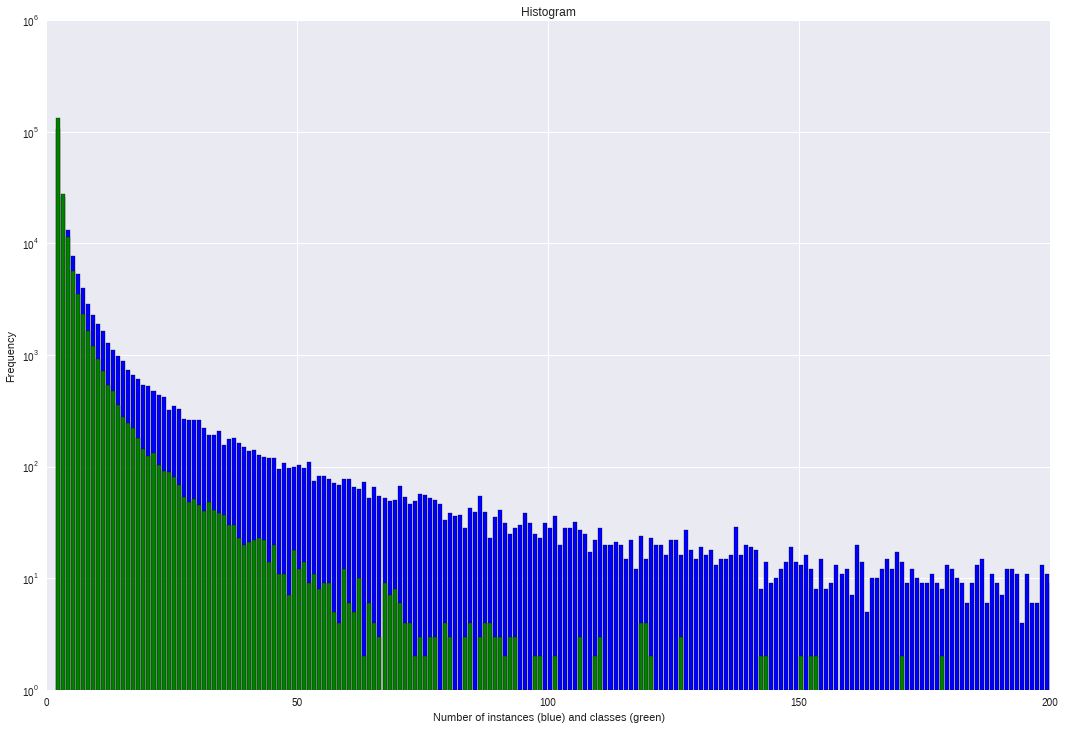
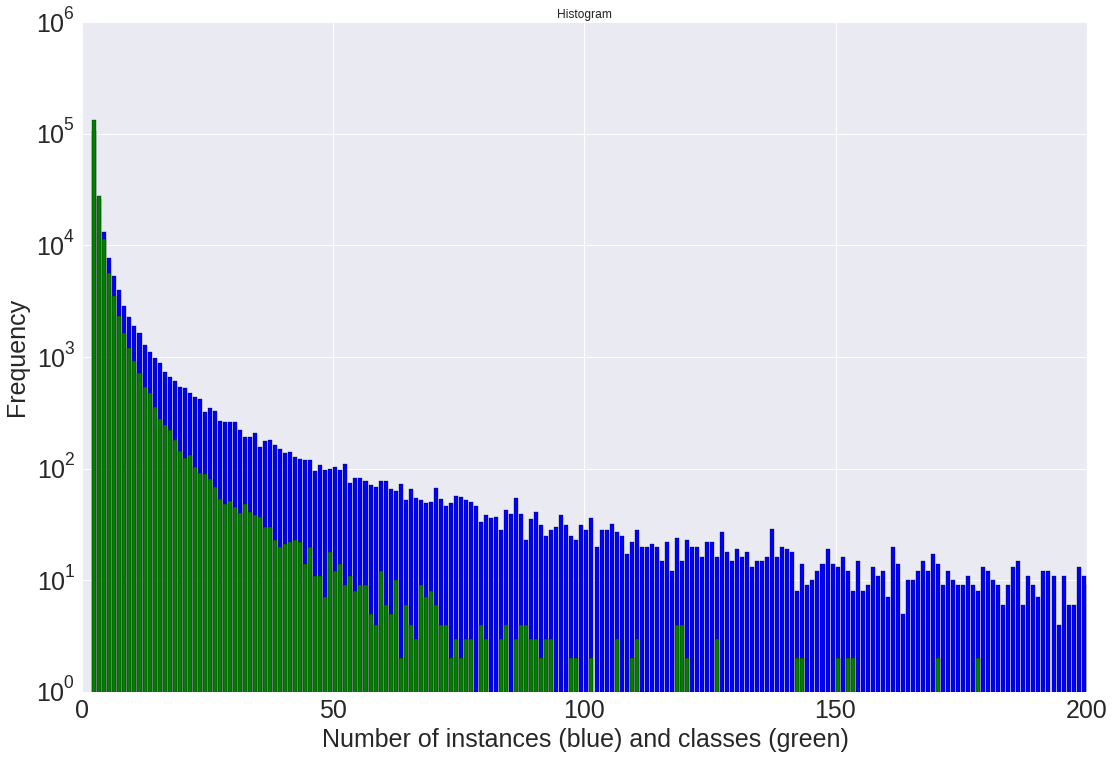
update

Changed region(s): [[0.0, 0.1509, 1.0, 0.9959], [0.4958, 0.0, 0.5577, 0.0302], [0.031, 0.0, 0.062, 0.0604]]

diff --git a/sourcecontextinsmt.tex b/sourcecontextinsmt.tex
@@ -1022,8 +1022,12 @@ Table~\ref{tab:expertcount} lists the number of classifier experts that were
 built for some of the data sets. The actual number of source phrases is always
 much higher, as classifiers are only built when there is ambiguity regarding
 the translation. To see how these classifiers are typically distributed, based
-on the number of instances and classes, we zoom in on the IWSLT 2012 data and
-plot a histogram in Figure~\ref{fig:histogram}.
+on the number of instances and classes, we zoom in on the IWSLT 2012 data for
+Dutch to English, and plot a histogram in Figure~\ref{fig:histogram}. As is
+ubiquitous in natural language processing, a zipf curve can be discerned from
+this figure, with the vast majority of classifier experts being very small and
+having few translations options, i.e classes, and an immediate sharp drop in
+frequency as the number of instances or classes increases.
 
 \begin{table}
 \begin{tabular}{|lll|l|}
@@ -1044,9 +1048,9 @@ Fryske Akademy & 137,937 & Frisian-Dutch & 213,573 \\
 
 
 \begin{figure}
-\includegraphics[width=60.00mm]{classifierhistogram.png}
+\includegraphics[width=80.00mm]{classifierhistogram.png}
 \label{fig:histogram}
-\caption{Histogram showing the distribution of the number of instances (blue) and number of classes (green) in the classifier experts for IWSLT 2012 TED, Dutch to English}
+\caption{Histogram showing the distribution of the number of instances (blue) and number of classes (green) in the classifier experts for IWSLT 2012 TED, Dutch to English (logarithmic)}
 \end{figure}
 
 Most of the tables in Section~\ref{sec:results1} list results for both classifier
